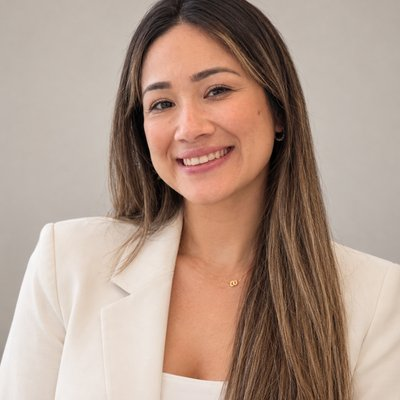
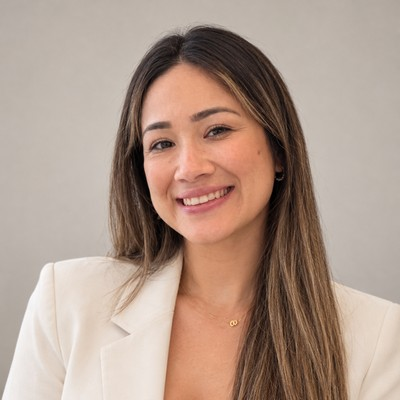
Show the top of Daniela Flores's head on the About page.
Her card uses the re-cropped headshot and is aligned to the top of the frame.

diff --git a/about.html b/about.html
@@ -221,7 +221,7 @@ h1{margin:0;font-size:clamp(26px,3vw,32px);line-height:1.2;font-weight:800}
 <div class="grid">
 <div class="person" data-section="Lead Instructors" data-name="Daniela Flores">
 <button type="button" class="card" aria-haspopup="dialog" aria-controls="bio-dialog" data-role="Bilingual Lead Instructor (English/Spanish)">
-<img class="photo" src="/images/team/daniela-flores.jpg" alt="Daniela Flores" width="120" height="120">
+<img class="photo" style="object-position:center top" src="/images/team/daniela-flores.jpg" alt="Daniela Flores" width="120" height="120">
 <span class="name">Daniela Flores</span>
 <span class="role">Bilingual Lead Instructor (English/Spanish)</span>
 <span class="credentials">BSN, RN</span>
